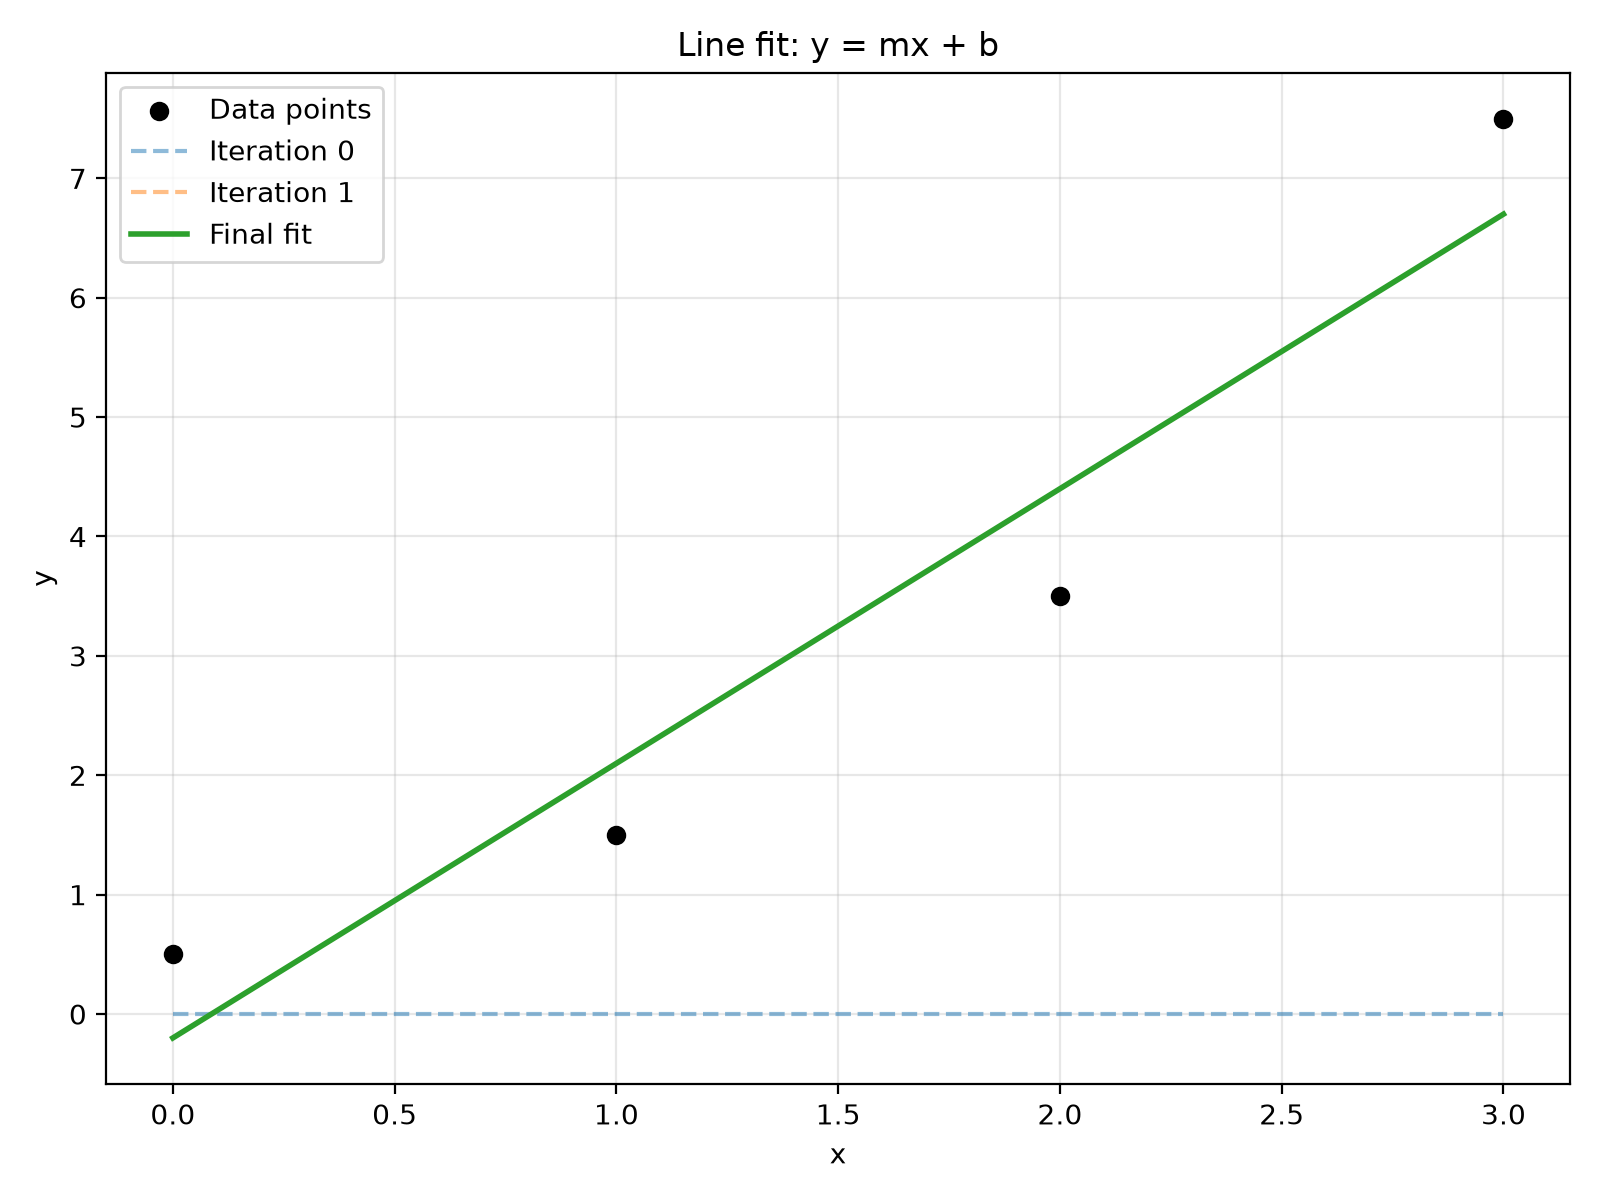
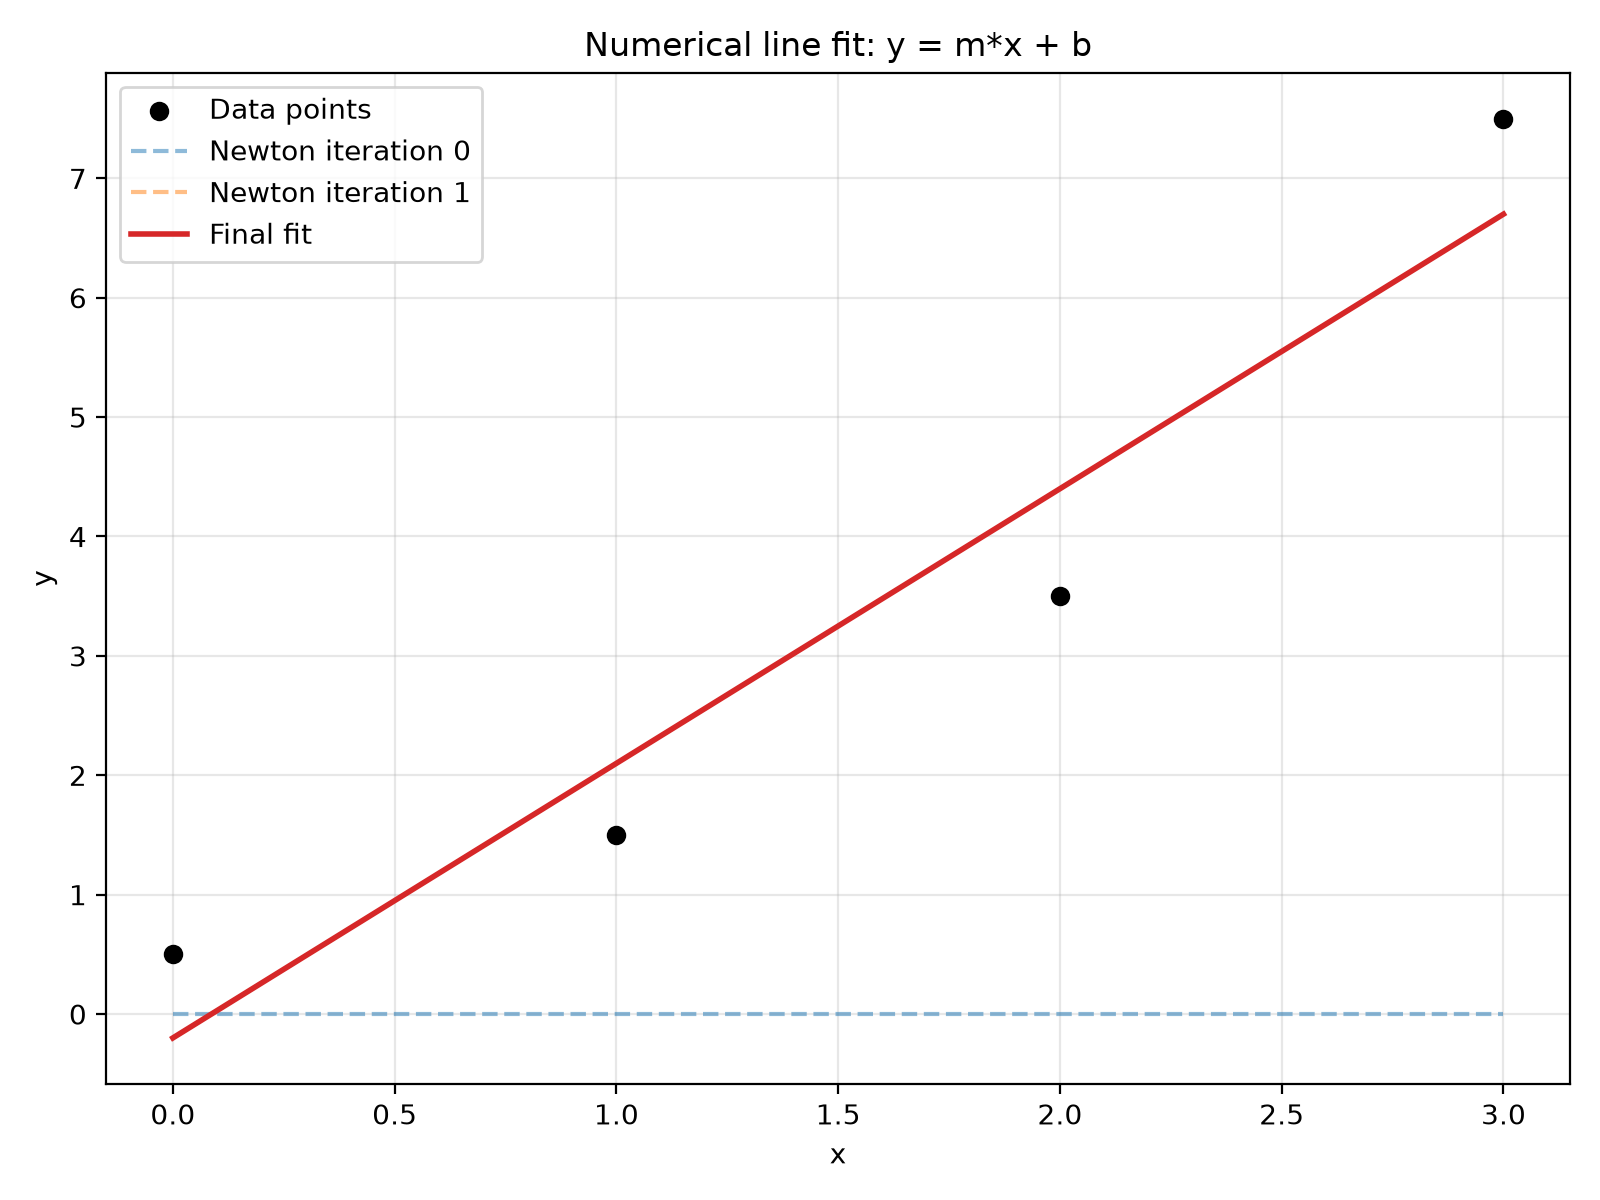
part 2 handwritten part update

diff --git a/1/index1.html b/1/index1.html
@@ -203,13 +203,23 @@
     <h3>Part 2A - Handwritten Analytical Solution</h3>
 
     <p>
-        Add your handwritten Part 2 solution as
-        <code>part2-handwritten.png</code> inside the <code>media</code> folder.
+        The handwritten analytical work is shown in the three images below.
+        Add them to the <code>media</code> folder using the filenames shown.
     </p>
 
+    <h4>Analytical Solution - Line Fit</h4>
     <div class="upload-placeholder">
-        Your handwritten Part 2 solution will appear here after you add
-        <code>part2-handwritten.png</code> to the <code>media</code> folder.
+        Add <code>part2-analytical-1.png</code> to the <code>media</code> folder.
+    </div>
+
+    <h4>Analytical Solution - Parabola Fit</h4>
+    <div class="upload-placeholder">
+        Add <code>part2-analytical-2.png</code> to the <code>media</code> folder.
+    </div>
+
+    <h4>Analytical Solution - MSE and Parameters</h4>
+    <div class="upload-placeholder">
+        Add <code>part2-analytical-3.png</code> to the <code>media</code> folder.
     </div>
 
     <h3>Analytical and Numerical Results</h3>

diff --git a/1/part2.py b/1/part2.py
@@ -1,4 +1,4 @@
-"""Part 2: fit a line and a parabola to the given data points."""
+"""Part 2: numerical line and parabola fitting."""
 
 from pathlib import Path
 
@@ -6,122 +6,136 @@ import matplotlib.pyplot as plt
 
 
 # Given data points
-data = [(0, 0.5), (2, 3.5), (1, 1.5), (3, 7.5)]
+DATA = [(0, 0.5), (2, 3.5), (1, 1.5), (3, 7.5)]
 
 
 # ============================================================
-# Mean squared error
+# Models and mean squared error
 # ============================================================
-
-def mse(parameters, model):
-    """Calculate MSE for a parameterized model."""
-    errors = []
-    for x, y in data:
-        errors.append(model(x, parameters) - y)
-    return sum(error ** 2 for error in errors) / len(data)
-
 
 def line(x, parameters):
-    """Line model y = mx + b."""
+    """Line model: y = m*x + b."""
     m, b = parameters
     return m * x + b
 
 
 def parabola(x, parameters):
-    """Parabola model y = ax^2 + bx + c."""
+    """Parabola model: y = a*x^2 + b*x + c."""
     a, b, c = parameters
-    return a * x ** 2 + b * x + c
+    return a * x**2 + b * x + c
+
+
+def mean_squared_error(parameters, model):
+    """Calculate the MSE for a model and its parameters."""
+    total_error = 0.0
+
+    for x, y in DATA:
+        error = model(x, parameters) - y
+        total_error += error**2
+
+    return total_error / len(DATA)
 
 
 # ============================================================
-# Analytical least-squares solutions
+# Multivariable Newton-Raphson method
 # ============================================================
+
+
+def features_for_line(x):
+    return [x, 1]
+
+
+def features_for_parabola(x):
+    return [x**2, x, 1]
+
+
+def gradient_and_hessian(parameters, features):
+    """Calculate the gradient and Hessian of the MSE."""
+    number_of_parameters = len(parameters)
+    gradient = [0.0] * number_of_parameters
+    hessian = [
+        [0.0] * number_of_parameters
+        for _ in range(number_of_parameters)
+    ]
+
+    for x, y in DATA:
+        features_at_x = features(x)
+        prediction = sum(
+            parameter * feature
+            for parameter, feature in zip(parameters, features_at_x)
+        )
+        error = prediction - y
+
+        for row in range(number_of_parameters):
+            gradient[row] += (
+                2 * error * features_at_x[row] / len(DATA)
+            )
+            for column in range(number_of_parameters):
+                hessian[row][column] += (
+                    2
+                    * features_at_x[row]
+                    * features_at_x[column]
+                    / len(DATA)
+                )
+
+    return gradient, hessian
+
 
 def solve_linear_system(matrix, vector):
-    """Solve a small linear system using Gaussian elimination."""
-    matrix = [row[:] + [value] for row, value in zip(matrix, vector)]
+    """Solve a small linear system for the Newton-Raphson update."""
+    augmented = [
+        matrix[row][:] + [vector[row]]
+        for row in range(len(vector))
+    ]
     size = len(vector)
 
     for pivot in range(size):
         pivot_row = max(
             range(pivot, size),
-            key=lambda row: abs(matrix[row][pivot])
+            key=lambda row: abs(augmented[row][pivot])
         )
-        matrix[pivot], matrix[pivot_row] = matrix[pivot_row], matrix[pivot]
-        divisor = matrix[pivot][pivot]
+        augmented[pivot], augmented[pivot_row] = (
+            augmented[pivot_row],
+            augmented[pivot],
+        )
 
+        divisor = augmented[pivot][pivot]
         for column in range(pivot, size + 1):
-            matrix[pivot][column] /= divisor
+            augmented[pivot][column] /= divisor
 
         for row in range(size):
             if row == pivot:
                 continue
-            multiplier = matrix[row][pivot]
+            multiplier = augmented[row][pivot]
             for column in range(pivot, size + 1):
-                matrix[row][column] -= multiplier * matrix[pivot][column]
+                augmented[row][column] -= (
+                    multiplier * augmented[pivot][column]
+                )
 
-    return [matrix[row][size] for row in range(size)]
-
-
-def analytical_fit(features):
-    """Use the normal equations: (X^T X) parameters = X^T y."""
-    parameter_count = len(features(0))
-    x_transpose_x = [[0.0] * parameter_count for _ in range(parameter_count)]
-    x_transpose_y = [0.0] * parameter_count
-
-    for x, y in data:
-        row = features(x)
-        for i in range(parameter_count):
-            x_transpose_y[i] += row[i] * y
-            for j in range(parameter_count):
-                x_transpose_x[i][j] += row[i] * row[j]
-
-    return solve_linear_system(x_transpose_x, x_transpose_y)
-
-
-# ============================================================
-# Multivariable Newton-Raphson
-# ============================================================
-
-def gradient_and_hessian(parameters, features):
-    """Calculate the gradient and Hessian of the MSE."""
-    parameter_count = len(parameters)
-    gradient = [0.0] * parameter_count
-    hessian = [[0.0] * parameter_count for _ in range(parameter_count)]
-
-    for x, y in data:
-        row = features(x)
-        prediction = sum(parameter * value for parameter, value in zip(parameters, row))
-        error = prediction - y
-
-        for i in range(parameter_count):
-            gradient[i] += 2 * error * row[i] / len(data)
-            for j in range(parameter_count):
-                hessian[i][j] += 2 * row[i] * row[j] / len(data)
-
-    return gradient, hessian
+    return [augmented[row][size] for row in range(size)]
 
 
 def newton_raphson_multivariable(
     initial_parameters, features, tolerance=1e-7, max_iter=100
 ):
-    """Minimize MSE using the multivariable Newton-Raphson update."""
+    """Minimize MSE with the multivariable Newton-Raphson method."""
     parameters = initial_parameters[:]
     iterations = [parameters[:]]
 
     for _ in range(max_iter):
         gradient, hessian = gradient_and_hessian(parameters, features)
-        change = solve_linear_system(hessian, gradient)
+        update = solve_linear_system(hessian, gradient)
         next_parameters = [
-            parameter - value
-            for parameter, value in zip(parameters, change)
+            parameter - change
+            for parameter, change in zip(parameters, update)
         ]
         iterations.append(next_parameters[:])
 
-        if max(
-            abs(next_value - value)
-            for next_value, value in zip(next_parameters, parameters)
-        ) < tolerance:
+        difference = max(
+            abs(next_parameter - parameter)
+            for next_parameter, parameter in zip(next_parameters, parameters)
+        )
+        if difference < tolerance:
             parameters = next_parameters
             break
 
@@ -131,16 +145,17 @@ def newton_raphson_multivariable(
 
 
 # ============================================================
-# Plot intermediate Newton-Raphson fits
+# Plot numerical iterations
 # ============================================================
+
 
 def plot_fit(model, parameters, iterations, title, filename):
     x_values = [index / 20 for index in range(61)]
 
     plt.figure(figsize=(8, 6))
     plt.scatter(
-        [x for x, y in data],
-        [y for x, y in data],
+        [x for x, y in DATA],
+        [y for x, y in DATA],
         color="black",
         label="Data points",
         zorder=3,
@@ -148,10 +163,22 @@ def plot_fit(model, parameters, iterations, title, filename):
 
     for index, iteration in enumerate(iterations[:-1]):
         y_values = [model(x, iteration) for x in x_values]
-        plt.plot(x_values, y_values, "--", alpha=0.5, label=f"Iteration {index}")
+        plt.plot(
+            x_values,
+            y_values,
+            "--",
+            alpha=0.5,
+            label=f"Newton iteration {index}",
+        )
 
     final_y_values = [model(x, parameters) for x in x_values]
-    plt.plot(x_values, final_y_values, label="Final fit", linewidth=2)
+    plt.plot(
+        x_values,
+        final_y_values,
+        color="tab:red",
+        linewidth=2,
+        label="Final fit",
+    )
     plt.xlabel("x")
     plt.ylabel("y")
     plt.title(title)
@@ -163,48 +190,48 @@ def plot_fit(model, parameters, iterations, title, filename):
 
 
 # ============================================================
-# Run both models
+# Run the numerical fits
 # ============================================================
+
+
+def print_result(name, parameters, model):
+    print(name)
+    print("Final parameters:", parameters)
+    print("Final MSE:", mean_squared_error(parameters, model))
+    print()
+
 
 def main():
     media_folder = Path(__file__).parent / "media"
-    line_features = lambda x: [x, 1]
-    parabola_features = lambda x: [x ** 2, x, 1]
 
-    line_analytical = analytical_fit(line_features)
-    parabola_analytical = analytical_fit(parabola_features)
-    line_newton, line_iterations = newton_raphson_multivariable(
-        [0.0, 0.0], line_features
+    line_parameters, line_iterations = newton_raphson_multivariable(
+        [0.0, 0.0],
+        features_for_line,
     )
-    parabola_newton, parabola_iterations = newton_raphson_multivariable(
-        [0.0, 0.0, 0.0], parabola_features
+    parabola_parameters, parabola_iterations = newton_raphson_multivariable(
+        [0.0, 0.0, 0.0],
+        features_for_parabola,
     )
 
-    print("Line: y = mx + b")
-    print("Analytical parameters:", line_analytical)
-    print("Newton-Raphson parameters:", line_newton)
-    print("Analytical MSE:", mse(line_analytical, line))
-    print("Newton-Raphson MSE:", mse(line_newton, line))
-    print()
-
-    print("Parabola: y = ax^2 + bx + c")
-    print("Analytical parameters:", parabola_analytical)
-    print("Newton-Raphson parameters:", parabola_newton)
-    print("Analytical MSE:", mse(parabola_analytical, parabola))
-    print("Newton-Raphson MSE:", mse(parabola_newton, parabola))
+    print_result("Numerical line fit: y = m*x + b", line_parameters, line)
+    print_result(
+        "Numerical parabola fit: y = a*x^2 + b*x + c",
+        parabola_parameters,
+        parabola,
+    )
 
     plot_fit(
         line,
-        line_newton,
+        line_parameters,
         line_iterations,
-        "Line fit: y = mx + b",
+        "Numerical line fit: y = m*x + b",
         media_folder / "part2-line-fit.png",
     )
     plot_fit(
         parabola,
-        parabola_newton,
+        parabola_parameters,
         parabola_iterations,
-        "Parabola fit: y = ax^2 + bx + c",
+        "Numerical parabola fit: y = a*x^2 + b*x + c",
         media_folder / "part2-parabola-fit.png",
     )
 

diff --git a/1/part1.py b/1/part1.py
@@ -1,4 +1,3 @@
-"""Part 1: shortest distance from a point to a function."""
 
 import math
 from pathlib import Path
@@ -9,7 +8,6 @@ import matplotlib.pyplot as plt
 def newton_raphson(
     x0, y0, f, df, ddf, initial_guess=0.0, tolerance=1e-7, max_iter=100
 ):
-    """Find a stationary point of the squared distance with Newton-Raphson."""
     x = initial_guess
     iterations = [x]
 
